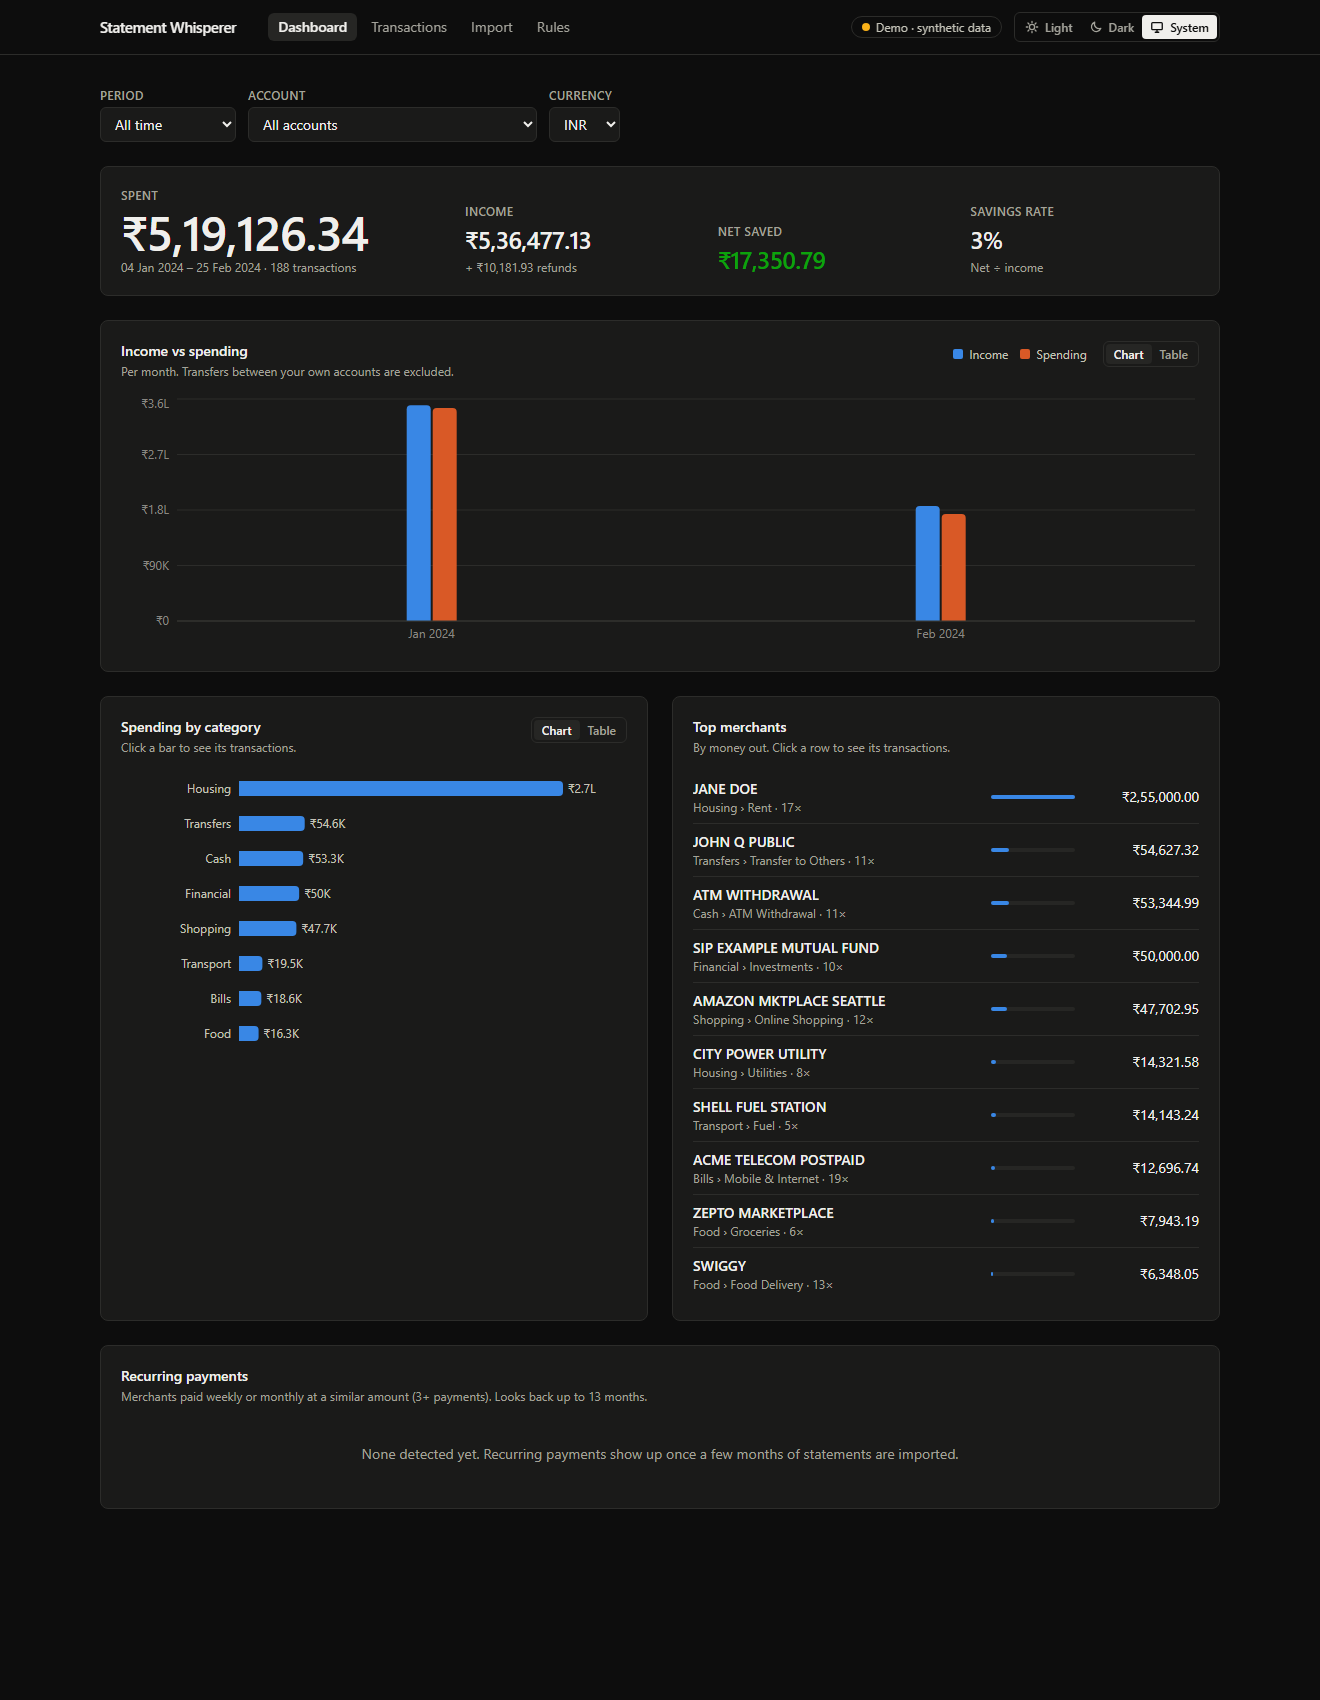
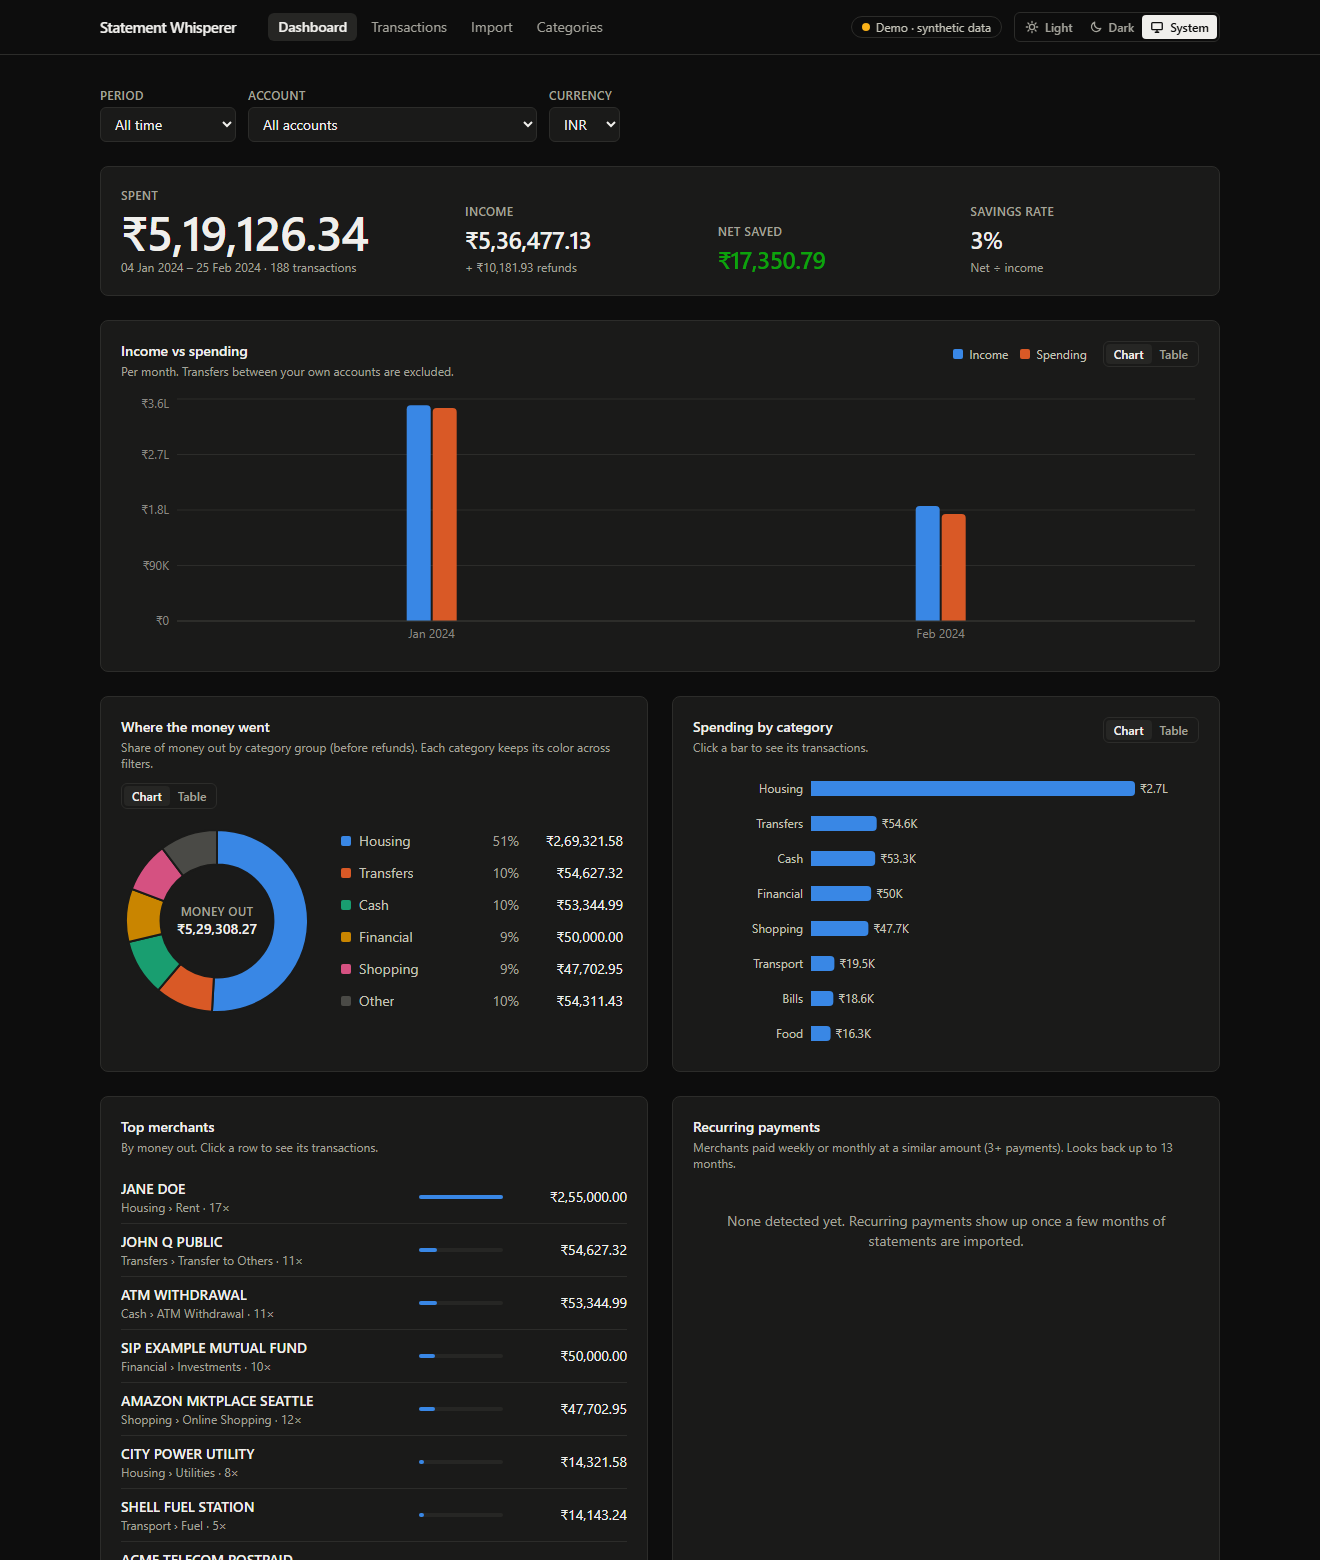
docs: document custom categories, the donut chart and migration safety

diff --git a/README.md b/README.md
@@ -19,7 +19,9 @@ There is no parser per bank. An LLM looks at a small, masked sample to infer the
 |---|---|
 | ![Dashboard, light theme](docs/screenshots/dashboard-light.png) | ![Dashboard, dark theme](docs/screenshots/dashboard-dark.png) |
 
-![Transactions with inline category editing](docs/screenshots/transactions.png)
+| Transactions with inline category editing | Categories (built-in + your own) |
+|---|---|
+| ![Transactions](docs/screenshots/transactions.png) | ![Categories](docs/screenshots/categories.png) |
 
 _Demo mode, synthetic data only._
 
@@ -76,7 +78,8 @@ One filter row (period, account, currency) scopes everything below it:
 
 - **Spent** (the headline figure), plus **income**, **net saved** and **savings rate**.
 - **Income vs spending:** per week for ranges up to 45 days, per month beyond that.
-- **Spending by category:** ranked, with the top 8 shown and the rest folded into "Other". Click a bar to open its transactions.
+- **Where the money went:** a donut chart of your top 5 category groups plus "Other". Each group keeps its colour when you change filters, because colours follow the group's all-time rank.
+- **Spending by category:** ranked, with the top 8 shown and the rest folded into "Other". Click a bar or slice to open its transactions.
 - **Top merchants:** click a row to open its transactions.
 - **Recurring payments:** merchants paid weekly or monthly at a similar amount, with the next expected date and the cost per month.
 
@@ -91,6 +94,8 @@ Every chart has a **Table** view, so no value is only visible on hover. Chart co
 
 1. **Merchant cleanup:** `UPI/412345678901/SWIGGY/jdoe@okaxis/Payment` becomes `SWIGGY`. Channel prefixes, reference numbers, card digits and UPI handles are stripped.
 2. **Your rules:** every manual correction is saved as a rule and wins over everything else. It is also applied to other transactions with the same merchant.
+
+**Custom categories.** Add your own on the **Categories** tab, or pick "＋ New category…" from any transaction's category menu. A new category can go under an existing group or in a new group (counted as spending, income or transfer). Your own categories can be renamed or deleted; deleting one makes its transactions uncategorized and removes its rules. Built-in categories are locked, because the categorizer refers to them by name.
 3. **Built-in hints:** ATM withdrawals, SALARY/INTEREST/REFUND credits, and EMI/SIP/RENT/fee debits. Person-to-person payments are categorized as *Transfer to Others* and their names are never sent to the LLM.
 4. **Seed rules:** about 60 common brands (Swiggy, Amazon, Uber, Netflix, Shell, Jio, Vodafone…). They're checked before the person heuristic, so a bank-truncated `VODAFONE IDEA` still counts as a phone bill.
 5. **Cache:** earlier LLM answers, stored as rules.
@@ -176,7 +181,10 @@ All settings come from environment variables or `.env`. See [`.env.example`](.en
 |---|---|---|
 | `POST` | `/api/accounts` | Create an account (`last4` only) |
 | `GET` | `/api/accounts` | List accounts |
-| `GET` | `/api/categories` | The fixed category tree |
+| `GET` | `/api/categories` | The category tree (built-in and custom) |
+| `POST` | `/api/categories` | Add a category (`name`, `parent_id` for an existing group, or `kind` for a new group) |
+| `PATCH` | `/api/categories/{id}` | Rename a custom category |
+| `DELETE` | `/api/categories/{id}` | Delete a custom category (its transactions become uncategorized) |
 | `POST` | `/api/imports` | Upload a statement (`account_id`, `file`, optional `mapping` JSON) |
 | `GET` | `/api/imports/{id}` | Import status, validation report, mapping |
 | `GET` | `/api/imports` | List imports (`?account_id=`) |
@@ -213,6 +221,6 @@ scripts/    dev.ps1 task runner
 
 - [x] **Phase 1:** scaffolding, schema + migrations, CSV/XLSX ingestion with LLM schema inference, validation, dedupe, import API, tests
 - [x] **Phase 2:** layered categorizer (merchant cleanup → rules → cache → LLM), correction loop, own-account transfers, transactions table and mapping review UI, Docker files (untested)
-- [x] **Phase 3:** dashboard (categories, trends, income vs expense, top merchants, recurring payments, savings rate), light/dark theme
+- [x] **Phase 3:** dashboard (categories, trends, income vs expense, top merchants, recurring payments, savings rate), light/dark theme, custom categories, category donut chart
 - [ ] **Phase 4:** text PDFs, password-protected PDFs, scanned/image fallback
 - [ ] **Phase 5:** export, automatic backups, year-over-year analytics, anomaly flags

diff --git a/docs/architecture.md b/docs/architecture.md
@@ -128,6 +128,7 @@ flowchart TD
 | `net` / `savings_rate` | income − spending; net ÷ income (null with no income) |
 | `series` | income and spending per bucket: weekly (Monday start) for ranges up to 45 days, otherwise monthly; empty buckets are filled |
 | `by_category` | money out per top-level category group, ranked; the 9th group onward folds into "Other (n)" (never a 9th chart colour) |
+| `pie` | money-out share per group for the donut: the groups holding colour slots 0–4, plus one grey "Other" (the rest, including uncategorized). **Slot = the group's all-time rank** (all accounts, this currency), never its rank in the current range, so filtering never repaints a slice. Capped at 6 parts so the whole reads at a glance. |
 | `top_merchants` | the 10 largest `cleaned_merchant`s by money out |
 | `recurring` | merchants with 3+ payments whose median gap is weekly (6–8 days) or monthly (25–35 days), with at least 70% of gaps within ±35% of the median and every amount within ±25% of the median amount. It looks back up to 400 days before the range end and drops merchants not seen for 1.5 gaps. |
 
@@ -172,7 +173,9 @@ erDiagram
 - **accounts**: bank name, nickname, currency, and `last4` only (a DB check constraint enforces 4 characters).
 - **imports**: file hash, file type, status, parser version, mapping and its source (`user`, `saved` or `llm`), header labels, validation report, date range, opening/closing balance, counts.
 - **transactions**: date, signed amount (negative = money out), type, balance, currency, `raw_narration` (immutable), `row_index`, `dedupe_hash` (unique), categorization fields (`cleaned_merchant` (indexed), `category_id`, `category_source`, `rules_version`), and transfer fields (`is_transfer`, `transfer_peer_id`, `transfer_dismissed`).
-- **categories**: a fixed two-level tree seeded by migration `0002`.
+- **categories**: a two-level tree. The built-in part is seeded by migration `0002`. Users can add their own (`is_custom`, migration `0005`) under existing groups or as new groups, and the categorizer and LLM list pick them up automatically. Only custom categories can be renamed or deleted, because code refers to built-ins by path (`Income > Refunds`, `Transfers > Self Transfer`…).
+
+**SQLite migrations and foreign keys.** SQLite can't `ALTER` most things, so Alembic's batch mode rebuilds the table (copy, drop, rename). With foreign keys enforced, the `DROP` would fire `ON DELETE CASCADE` / `SET NULL` on every referencing row: adding a column to `categories` would wipe sub-categories, merchant rules and transaction categories. `alembic/env.py` therefore switches enforcement off for the migration, runs `PRAGMA foreign_key_check` before committing, and switches it back on. `test_upgrades_preserve_existing_data` guards this.
 - **merchant_rules**: pattern → category, with `source` of `seed` (migration `0003`), `user` (corrections) or `llm` (cached answers) and a `priority`.
 
 Money is stored as `NUMERIC(18,4)`. SQLite is the default and Postgres works through `DATABASE_URL`. Migrations are hand-written, and `tests/test_migrations.py` checks that they produce exactly the schema the ORM models describe.

diff --git a/docs/privacy.md b/docs/privacy.md
@@ -25,7 +25,7 @@ Preamble lines above the header (bank name, account holder, account number, addr
 - the **cleaned merchant name** (e.g. `SWIGGY`, `CITY POWER UTILITY`). `mask_free_text` then removes any remaining emails, UPI handles and phone/card/account numbers;
 - the direction (`debit` / `credit`);
 - hint keywords from a fixed list (`SALARY`, `REFUND`, `EMI`…);
-- the fixed category list.
+- the category list (built-in categories plus any you've added, so don't put anything private in a category name).
 
 Not sent: raw narrations, amounts, dates, balances, account details, or **person names**. Person-to-person payments (IMPS/NEFT/UPI/cheque to something that looks like a name) are flagged during merchant cleanup, categorized locally as *Transfer to Others*, and never sent. The detection is a heuristic that errs toward treating names as people, which costs some accuracy in exchange for privacy. For example, in UPI narrations a payee that is a raw handle (`…@pty`), a phone number, or a lone word with no business signal counts as a person. A correction fixes it for good. Each merchant is sent at most once, and the answer is cached as a rule.
 
